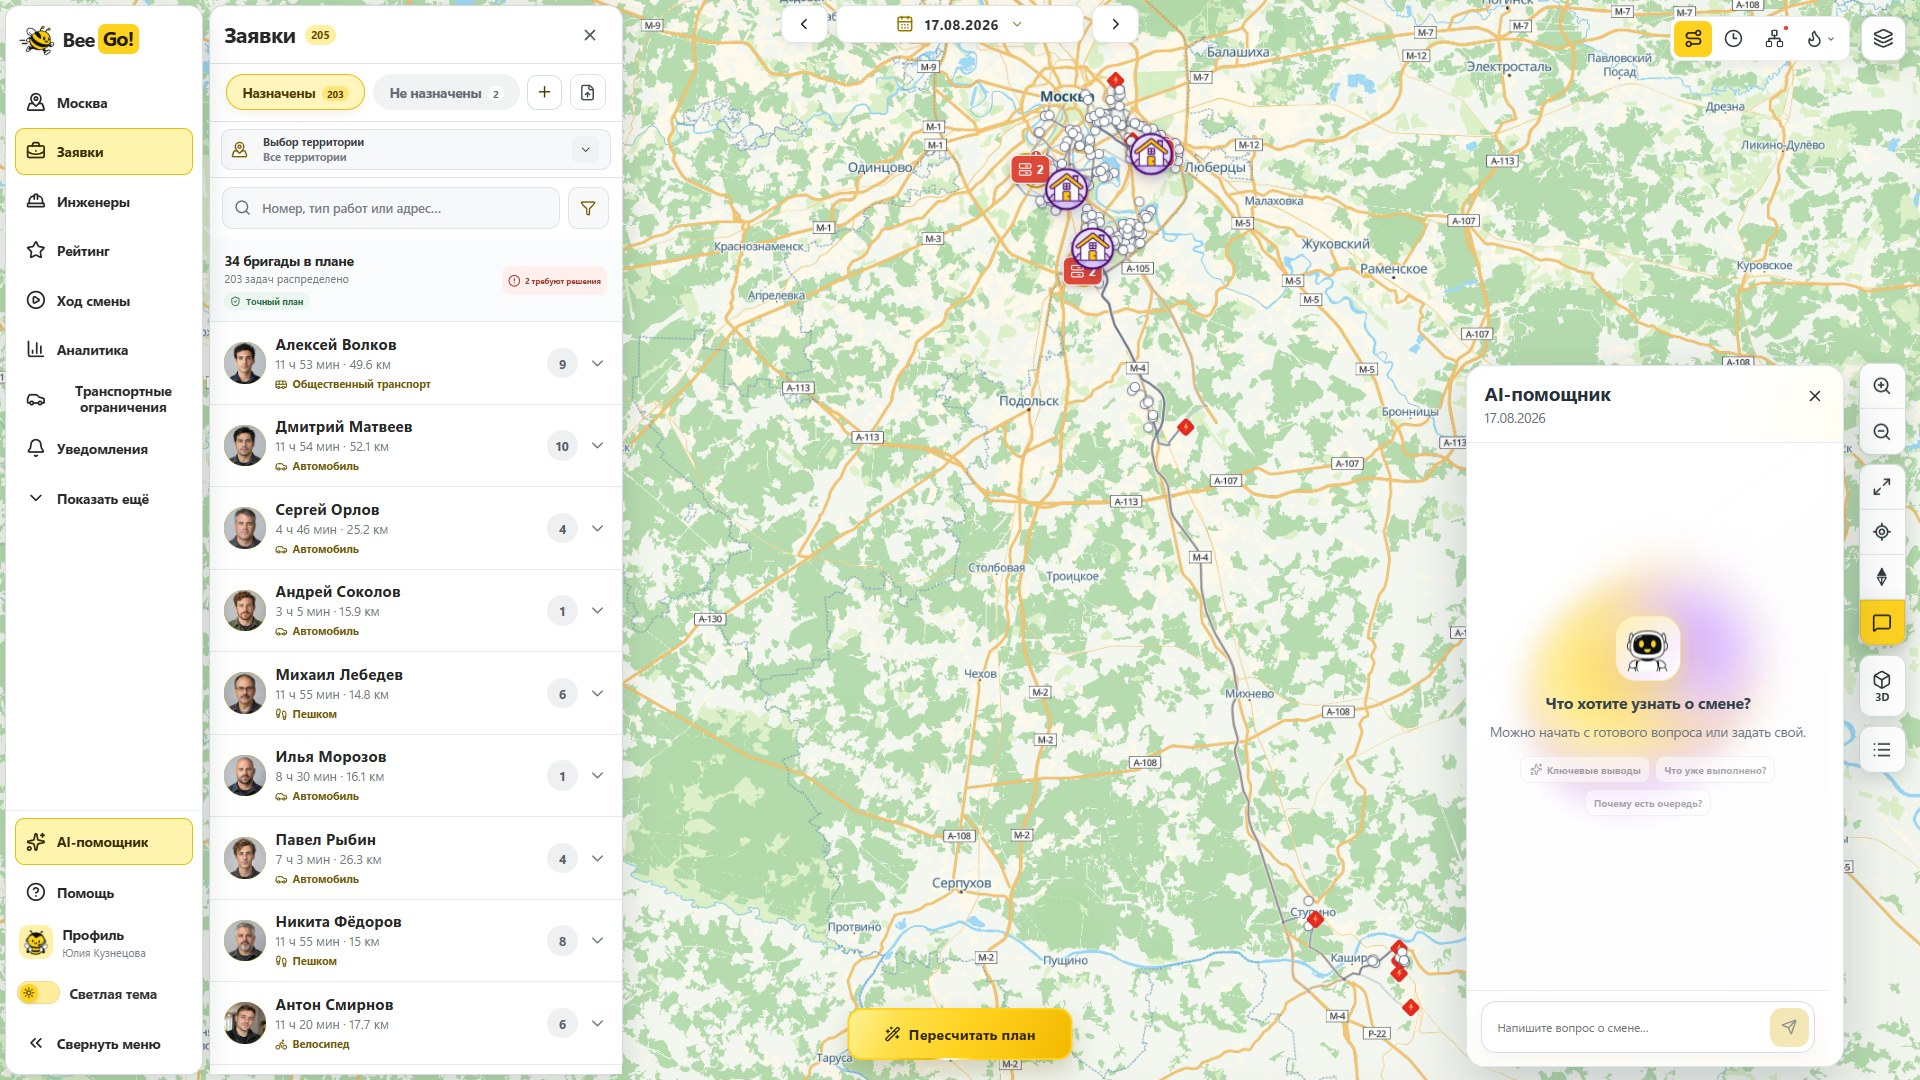
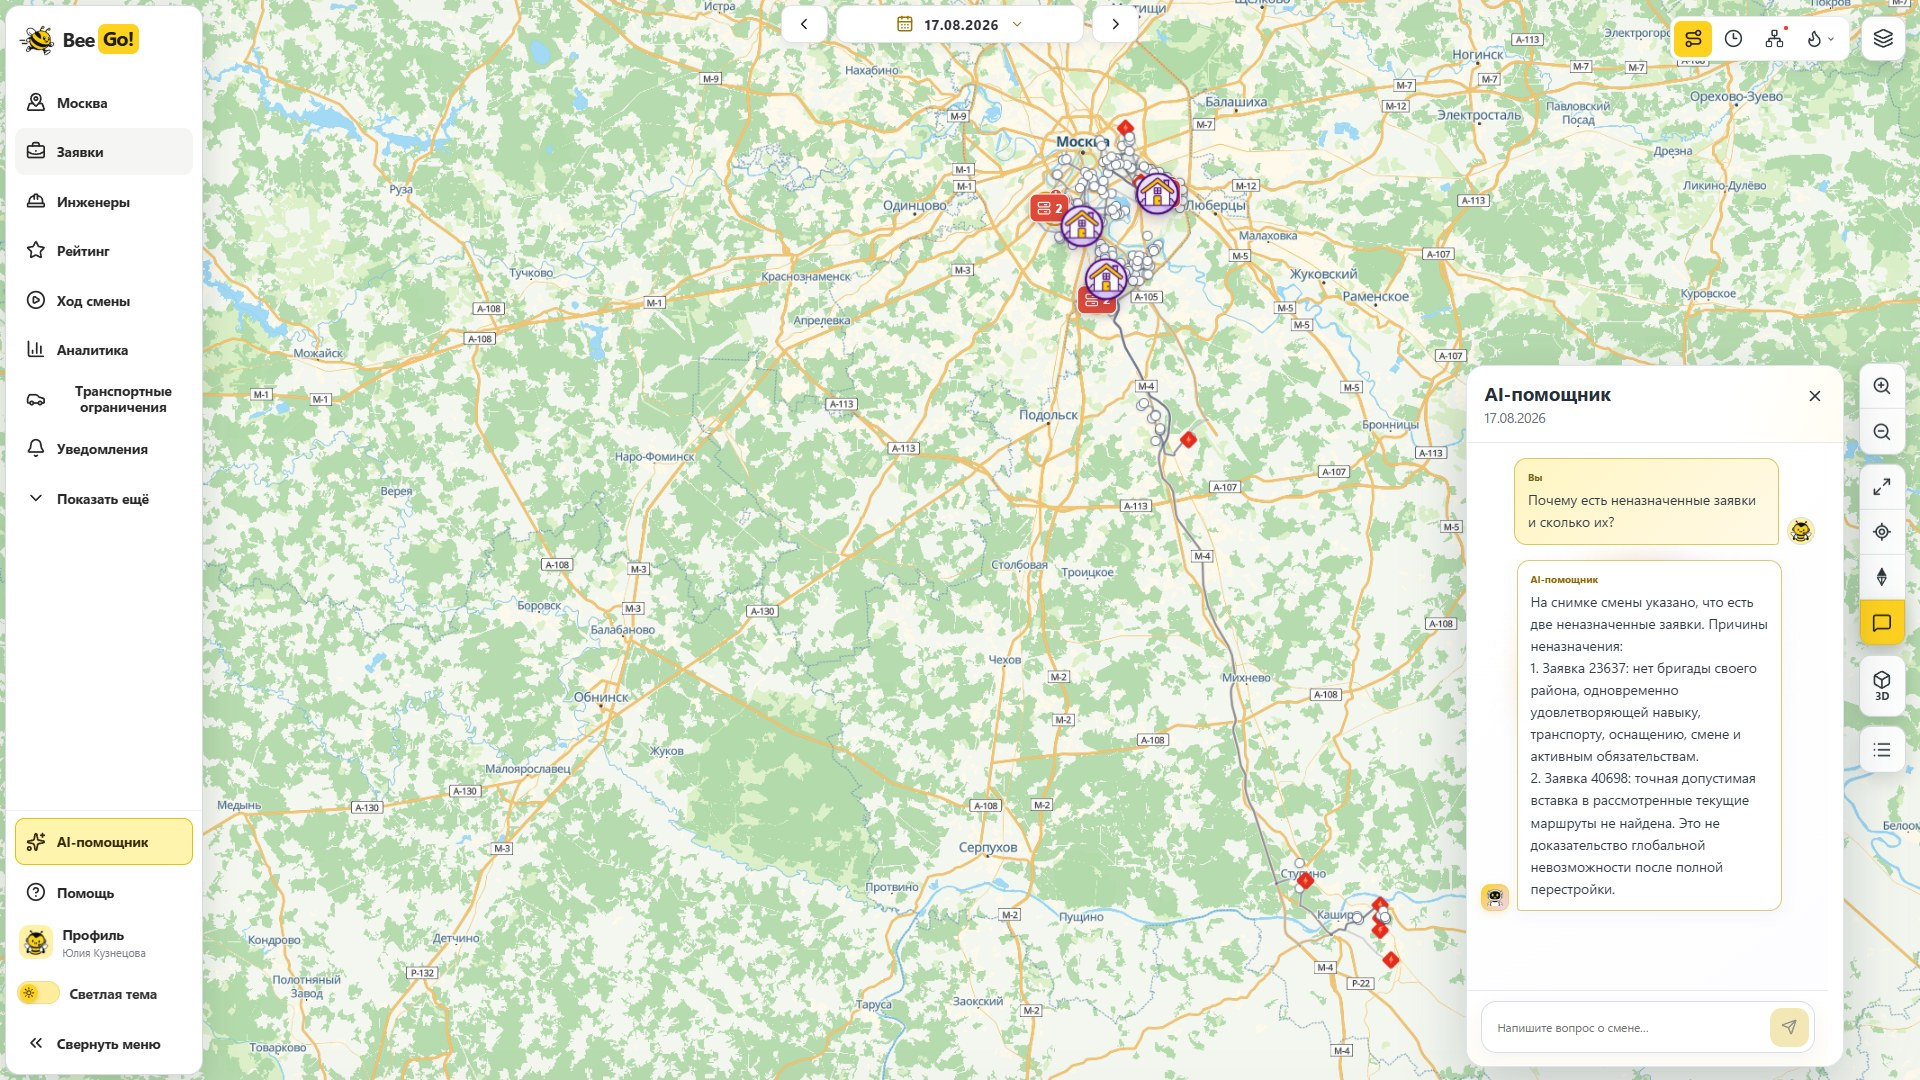
fix: speed transit search and confirm suggested building addresses

diff --git a/site/worker/index.js b/site/worker/index.js
@@ -253,7 +253,9 @@ async function suggestMoscowAddresses(query, env = {}) {
   const results = (payload.results || []).filter(item => /москв/i.test([
     item.city, item.municipality, item.county, item.formatted,
   ].filter(Boolean).join(' '))).map(item => ({
-    address: item.formatted,
+    address: item.street && item.housenumber
+      ? [item.city || item.municipality || 'Москва', item.street, `дом ${item.housenumber}`].join(', ')
+      : item.formatted,
     coords: [Number(item.lat), Number(item.lon)],
     precision: item.result_type || '',
   })).filter(item => item.address && item.coords.every(Number.isFinite));

diff --git a/algorithm/src/beeline_routing/local_transit.py b/algorithm/src/beeline_routing/local_transit.py
@@ -91,14 +91,11 @@ class LocalTransitRoutingClient:
         self._load_transfers()
         self.station_access = self._load_station_access()
         self.metro_paths_cache: dict[str, list[tuple[str, int, list[dict]]]] = {}
-        schema_path = self.database.parent.parent.parent.parent / 'research/mosmetro-api/schema.json'
+        schema_path = self._schema_path()
         self.metro_reference = (MetroReference(schema_path, walking,
                                                 boarding_wait_seconds=metro_wait_seconds)
                                 if schema_path.is_file() else None)
-        transport_schema = self._schema_path()
         self.transport_graph = self.metro_reference
-        if self.transport_graph is None and transport_schema.is_file():
-            self.transport_graph = MetroReference(transport_schema, walking, boarding_wait_seconds=metro_wait_seconds)
 
     def _schema_path(self):
         candidates = [Path(__file__).resolve().parents[3] / 'offline-assets/transit-sources/metro/schema.json',
@@ -161,7 +158,7 @@ class LocalTransitRoutingClient:
 
     def _load_station_access(self) -> dict[str, tuple[int, int]]:
         # The official schema provides platform entry/exit times for some stations.
-        schema_path = self.database.parent.parent.parent.parent / 'research/mosmetro-api/schema.json'
+        schema_path = self._schema_path()
         if not schema_path.is_file():
             return {}
         schema = json.loads(schema_path.read_text(encoding='utf-8'))['data']
@@ -246,11 +243,13 @@ class LocalTransitRoutingClient:
         return min(candidates, key=lambda route: route.duration_seconds or 10**9) if candidates else None
 
     def _relax_transfers(self, initial: _Label, labels: dict[str, _Label],
-                         *, allow_metro: bool) -> None:
+                         *, allow_metro: bool, arrival_bound: int | None = None) -> None:
         queue = deque([initial])
         while queue:
             current = queue.popleft()
             if labels.get(current.stop_id) is not current:
+                continue
+            if arrival_bound is not None and current.time >= arrival_bound:
                 continue
             for target, walk_time, source, distance in self.walk_transfers.get(current.stop_id, ()):
                 if source != 'VALHALLA_WALK_MATRIX' and self.transport_context.blocked('transfer', current.stop_id, target, self._at(current.time)):
@@ -264,6 +263,8 @@ class LocalTransitRoutingClient:
                 else:
                     duration = walk_time
                 candidate = current.time + duration
+                if arrival_bound is not None and candidate >= arrival_bound:
+                    continue
                 if candidate < labels.get(target, _Label(10**9, target, '', None, ())).time:
                     updated = _Label(candidate, target, 'transfer', current,
                                      (duration, source, distance, walk_time))
@@ -296,6 +297,8 @@ class LocalTransitRoutingClient:
                         paths=self._restricted_metro_paths(current.stop_id,current.time)
                 for target, duration, segments in paths:
                     candidate = current.time + duration
+                    if arrival_bound is not None and candidate >= arrival_bound:
+                        continue
                     if candidate < labels.get(target, _Label(10**9, target, '', None, ())).time:
                         updated = _Label(candidate, target, 'metro_path', current,
                                          (duration, segments))
@@ -318,6 +321,13 @@ class LocalTransitRoutingClient:
                        if self.metro_reference else None)
         direct_walk = self._direct_walk_option(origin, destination, departure_at)
         start = departure_at.hour * 3600 + departure_at.minute * 60 + departure_at.second
+        # A complete admissible route bounds the search: a later departure
+        # cannot improve its arrival when all travel and waiting times are nonnegative.
+        incumbent = self._fastest(metro_route, direct_walk)
+        arrival_bound = None
+        if incumbent is not None and incumbent.duration_seconds is not None:
+            arrival_bound = start + incumbent.duration_seconds
+        last_departure = min(start + self.horizon_seconds, arrival_bound) if arrival_bound is not None else start + self.horizon_seconds
         allow_metro = bool(self.transport_graph) or not (3600 <= start < 5 * 3600 + 30 * 60)
         access = self._walk_routes(origin, inbound=False, departure_at=departure_at)
         egress = self._walk_routes(destination, inbound=True, departure_at=departure_at)
@@ -336,11 +346,12 @@ class LocalTransitRoutingClient:
                                stop_id, 'access', None, (walk, platform_enter, opening_wait))
             if stop_id not in labels or candidate.time < labels[stop_id].time:
                 labels[stop_id] = candidate
-                self._relax_transfers(candidate, labels, allow_metro=allow_metro)
+                self._relax_transfers(candidate, labels, allow_metro=allow_metro,
+                                      arrival_bound=arrival_bound)
         cursor = self.db.execute(
             'SELECT from_id,to_id,dep,arr,trip_id,source FROM connections '
             'WHERE dep >= ? AND dep <= ? ORDER BY dep',
-            (start, start + self.horizon_seconds),
+            (start, last_departure),
         )
         for source_id, target_id, dep, arr, trip_id, timetable_source in cursor:
             source_label = labels.get(source_id)
@@ -352,7 +363,8 @@ class LocalTransitRoutingClient:
             updated = _Label(arr, target_id, 'ride', source_label,
                              (source_id, dep, arr, trip_id, timetable_source))
             labels[target_id] = updated
-            self._relax_transfers(updated, labels, allow_metro=allow_metro)
+            self._relax_transfers(updated, labels, allow_metro=allow_metro,
+                                  arrival_bound=arrival_bound)
         best = None
         for stop_id, walk in egress.items():
             label = labels.get(stop_id)

diff --git a/algorithm/tests/test_local_transit.py b/algorithm/tests/test_local_transit.py
@@ -133,6 +133,64 @@ class LocalTransitMixedModeTests(unittest.TestCase):
         self.assertEqual(route.provenance.provider, 'LOCAL_GTFS_VALHALLA')
         self.assertIsNone(route.provenance.provider_metadata['rail_schedule_applied_to_date'])
 
+    def test_runtime_schema_supplies_platform_times_and_metro_reference(self) -> None:
+        schema = Path(self.temporary.name) / 'portable-schema.json'
+        schema.write_text(json.dumps({'data': {
+            'stations': [{'id': 1, 'lineId': 1, 'enterTime': 80, 'exitTime': 45}],
+            'connections': [], 'transitions': [],
+        }}), encoding='utf-8')
+        with sqlite3.connect(self.database) as db:
+            db.execute('INSERT INTO network_station_ids VALUES (?,?)', (1, 'm:1'))
+        with patch.object(LocalTransitRoutingClient, '_schema_path', return_value=schema):
+            client = LocalTransitRoutingClient(self.database, FakeWalkingClient())
+        self.clients.append(client)
+        self.assertEqual(client.station_access['m:1'], (80, 45))
+        self.assertIsNotNone(client.metro_reference)
+        self.assertIs(client.transport_graph, client.metro_reference)
+
+    def test_known_walk_bounds_scan_without_losing_faster_bus(self) -> None:
+        with sqlite3.connect(self.database) as db:
+            db.execute('INSERT INTO trips VALUES (?,?,?,?)', ('early', '1', 'B', 'bus'))
+            db.execute('INSERT INTO trips VALUES (?,?,?,?)', ('late', '2', 'B', 'bus'))
+            db.execute('INSERT INTO connections VALUES (?,?,?,?,?,?,?)',
+                       (1, 'g:a', 'g:b', 9 * 3600 + 30, 9 * 3600 + 90, 'early', 'GTFS'))
+            db.execute('INSERT INTO connections VALUES (?,?,?,?,?,?,?)',
+                       (2, 'g:a', 'g:b', 14 * 3600, 14 * 3600 + 60, 'late', 'GTFS'))
+        client = LocalTransitRoutingClient(self.database, FakeWalkingClient())
+        self.clients.append(client)
+        statements = []
+        client.db.set_trace_callback(statements.append)
+        route = client.route(
+            origin=Coordinate('origin', 55.7000, 37.6000),
+            destination=Coordinate('destination', 55.7301, 37.6301),
+            mode=TransportMode.PUBLIC_TRANSIT,
+            departure_at=datetime.fromisoformat('2026-08-17T09:00:00+03:00'),
+        )
+        self.assertEqual(route.status, RouteStatus.OK)
+        self.assertEqual(route.duration_seconds, 90)
+        self.assertIn('bus', [step.mode for step in route.itinerary])
+        scan = next(statement for statement in statements if 'FROM connections WHERE dep' in statement)
+        self.assertIn('dep <= 33400', scan)
+
+    def test_no_incumbent_keeps_arrivals_after_departure_horizon(self) -> None:
+        with sqlite3.connect(self.database) as db:
+            db.execute('INSERT INTO trips VALUES (?,?,?,?)', ('late', '1', 'B', 'bus'))
+            db.execute('INSERT INTO connections VALUES (?,?,?,?,?,?,?)',
+                       (1, 'g:a', 'g:b', 14 * 3600 + 50 * 60,
+                        15 * 3600 + 10 * 60, 'late', 'GTFS'))
+            db.execute('DELETE FROM metro_paths')
+        client = LocalTransitRoutingClient(self.database, FakeWalkingClient())
+        self.clients.append(client)
+        with patch.object(client, '_direct_walk_option', return_value=None):
+            route = client.route(
+                origin=Coordinate('origin', 55.7000, 37.6000),
+                destination=Coordinate('destination', 55.7301, 37.6301),
+                mode=TransportMode.PUBLIC_TRANSIT,
+                departure_at=datetime.fromisoformat('2026-08-17T09:00:00+03:00'),
+            )
+        self.assertEqual(route.status, RouteStatus.OK)
+        self.assertEqual(route.duration_seconds, 6 * 3600 + 10 * 60)
+
 
 if __name__ == '__main__':
     unittest.main()

diff --git a/algorithm/src/beeline_routing/cli.py b/algorithm/src/beeline_routing/cli.py
@@ -112,7 +112,7 @@ def create_route_client(
             cache,
             namespace=(
                 f'{transit_index.resolve()}:{stat.st_size}:{stat.st_mtime_ns}:'
-                f'metro-wait={metro_wait_seconds}:metro-hours-v2:'
+                f'metro-wait={metro_wait_seconds}:metro-hours-v3-entry-bounds:'
                 f'road-snapshot={valhalla.runtime_revision}'
                 + (f':transport={valhalla.transport_context.digest}' if any(e.get('kind') != 'road' or 'WALKING' in e.get('modes', []) for e in valhalla.transport_context.events) else '')
             ),

diff --git a/docs/development/validation.md b/docs/development/validation.md
@@ -6,8 +6,8 @@
 
 | Набор | Результат |
 | --- | --- |
-| JavaScript / Node | 481 прошёл, 2 пропущены |
-| Python | 287 прошли, 2 пропущены |
+| JavaScript / Node | 482 прошли, 2 пропущены |
+| Python | 290 прошли, 2 пропущены |
 | Сборка | Клиент и серверный пакет собираются |
 | API и runtime | Проверки здоровья и готовности прошли |
 | Упаковка релиза | 4 проверки восстановления контрольных сумм прошли |
@@ -35,8 +35,19 @@
 | Операционная основа 17.08.2026 | 203/205, срочные 15/15, 34/35 инженеров, 1 436,4 км |
 | Совпадающий домашний старт | 204/205 до аварии |
 | Рейтинговый состав | 203/205, 34 специалиста, независимо проверенный план |
+| Новый импорт за 18.08.2026 | 75/77, аварийные 6/6, 15/35 инженеров, 386 км |
 
 Это разные версии и входы; их показатели не следует смешивать. Все 41 актуальных снимка сохранены в 1920×1080. В основном README используются 36 экранов, две страницы PDF и пять поясняющих схем.
+
+## Полный рабочий день на новом импорте
+
+Сценарий демонстрационного видео повторён действиями в браузере на отдельной базе: календарь, импорт и редактирование 77 заявок, фильтры, состав, построение плана, воспроизведение смены, факт визита, перестроение остатка дня, аналитика, тарифы, PDF и архив, ручная заявка, отмена, восстановление версии, перенос окна и новый инженер. Сохранение инженера с подтверждённым адресом увеличило состав с 35 до 36 человек; новая заявка прошла поиск дома и публикацию.
+
+Холодный расчёт с пустыми расчётными кэшами получил независимо проверенный план 75/77. Две оставшиеся заявки специально проверяют отсутствие нужного навыка и окно до выхода бригад. Все шесть аварийных заявок назначены. На проверенном локальном стенде этапы планирования заняли около шести минут; время подготовки транспортного индекса учитывается отдельно. Это измерение конкретного набора, а не обещание времени для произвольного размера входов.
+
+Проверены также ограничения операций: завершение визита требует начала; откат не меняет защищённую прошлую часть смены; допустимая версия восстанавливается с сохранением фактов. Добавление заявки после окончания клиентского окна сохраняет её в очереди и не назначает выезд задним числом.
+
+С настроенными серверными ключами Geoapify подтвердил конкретные дома для заявки и старта инженера. Yandex AI Studio вернул настоящий ответ через интерфейс по сохранённому снимку смены. Ключи не входят в репозиторий, сборку и снимки экрана.
 
 Сохранность операционной базы проверялась сравнением таблиц и сессий до и после обновления. Изменились только технические якоря часов; планы, факты, отзывы и история остались прежними. Полные локальные логи и резервные копии хранятся вне репозитория.
 

diff --git a/docs/assets/CURRENT-SCREENSHOTS.md b/docs/assets/CURRENT-SCREENSHOTS.md
@@ -1,6 +1,6 @@
 # Актуальные снимки BeeGo!
 
-Снято 20.10.2026 с объединённой версии на отдельном QA `http://127.0.0.1:8788/`. JPG — настоящие экраны 1920×1080, без монтажа. Внешний вид и результаты не подставлялись кодом документации.
+Снято 20.10.2026 с объединённой версии на отдельном QA `http://127.0.0.1:8788/`. JPG — настоящие экраны 1920×1080, без монтажа. Внешний вид и результаты не подставлялись кодом документации. `current-assistant.jpg` обновлён с рабочего локального экземпляра после подключения Yandex AI Studio: на снимке настоящий ответ на вопрос о неназначенных заявках.
 
 Страницы `report-page-1.png` и `report-page-2.png` отрисованы в ширине 1200 px из приложенного [PDF](beego-report-2026-08-17.pdf), сформированного сервером для исходной смены 17.08.2026, ревизия 3. Документ содержит 19 страниц.
 
